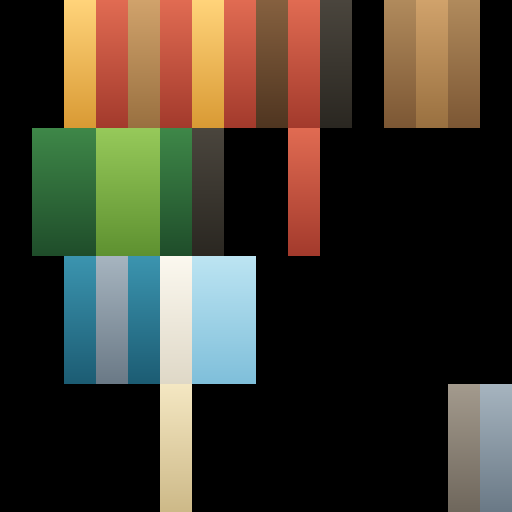
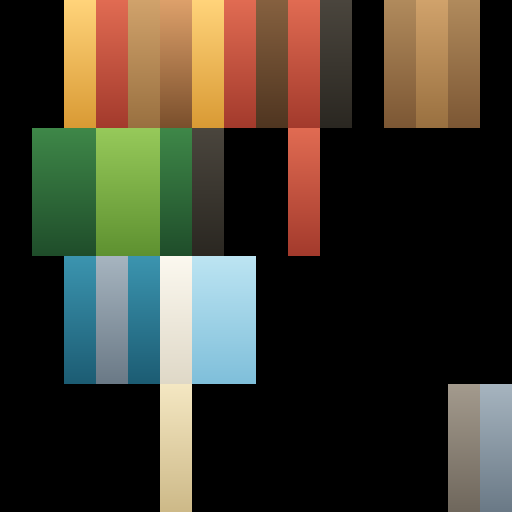
Cel 5,0 van atlas v2 krijgt een eigen houtbaan in plaats van rood
Boomstammen, planken, trappen, scheepsrompen en tentstokken staan op cel 5,0;
atlas v2 zette die op dezelfde rode baan als het dak en het vuur. De cel draagt
nu #dda06a - #7a4f2c: dezelfde houtfamilie als de blokken, kratten en planken,
maar met genoeg afstand tot beide bestaande houtbanen om het onderscheid binnen
een model te bewaren. Daarmee zakt het aantal modellen dat twee duidelijk
verschillende kleuren ziet samenvallen van 170 naar 152.

Changed region(s): [[0.3125, 0.0, 0.375, 0.25]]

diff --git a/docs/kleurmap_review.md b/docs/kleurmap_review.md
@@ -22,31 +22,45 @@ dat ze over de groepen van de catalogus verdeeld liggen: bouwwerken, schepen,
 opslag, huisraad, licht, eten, gereedschap, grondstoffen, bomen, planten,
 rotsen en verbindingen. Een kleurwissel landt zo altijd op iets herkenbaars.
 
+## Cel 5,0 — de houtbaan
+
+Boomstammen, planken, trappen, scheepsrompen en tentstokken staan allemaal op
+cel 5,0. De atlas zoals hij binnenkwam zette die cel op dezelfde rode baan als
+het dak en het vuur, waardoor al dat hout rood werd. Die cel draagt nu een eigen
+houtbaan: `#dda06a → #7a4f2c`.
+
+Overwogen alternatieven waren de houtbanen die er al staan — `#b08a5c → #7c5734`
+van de blokken en kratten (12,0 en 14,0) en `#d0a26b → #997040` van de planken
+(4,0 en 13,0). Allebei laten ze cel 5,0 samenvallen met een baan die er al is;
+bij de eerste lopen de treden en het frame van de houten trap in elkaar over. De
+gekozen baan houdt van allebei afstand — 55 volgens de redmean-formule uit
+`tools/kleurmap.mjs` — en blijft in dezelfde houtfamilie.
+
 ## Wat er verandert
 
 Atlas v2 is geen kleurcorrectie maar een kleinere set. De huidige atlas heeft
 26 gevulde cellen met 26 verschillende kleurbanen; v2 heeft er 28 gevuld, maar
-daar staan nog maar **14 verschillende banen** in. Tien banen dekken meerdere
+daar staan nog maar **15 verschillende banen** in. Tien banen dekken meerdere
 cellen af:
 
 | baan in v2 | cellen die erop uitkomen |
 | --- | --- |
-| `#df6a51 → #a43b2d` (rood) | 3,0 · 5,0 · 7,0 · 9,0 · 9,1 |
-| `#3e8648 → #1f4e2a` (donkergroen) | 1,1 · 2,1 · 5,1 |
-| `#fed279 → #da9b35` (amber) | 2,0 · 6,0 |
-| `#cfa16a → #9a7141` (licht hout) | 4,0 · 13,0 |
-| `#af895b → #7d5835` (hout) | 12,0 · 14,0 |
-| `#49453d → #2b2721` (donker) | 10,0 · 6,1 |
-| `#95c859 → #5f9231` (grasgroen) | 3,1 · 4,1 |
-| `#3b93ae → #1c5d74` (blauwgroen) | 2,2 · 4,2 |
-| `#a5b3be → #6b7a87` (blauwgrijs) | 3,2 · 15,3 |
-| `#bbe3f2 → #80c0da` (lichtblauw, nieuw) | 6,2 · 7,2 |
+| `#e06b52 → #a33a2c` (rood) | 3,0 · 7,0 · 9,0 · 9,1 |
+| `#3e8748 → #1f4d2a` (donkergroen) | 1,1 · 2,1 · 5,1 |
+| `#ffd37a → #d99a34` (amber) | 2,0 · 6,0 |
+| `#d0a26b → #997040` (licht hout) | 4,0 · 13,0 |
+| `#b08a5c → #7c5734` (hout) | 12,0 · 14,0 |
+| `#4a453d → #2a2721` (donker) | 10,0 · 6,1 |
+| `#96c95a → #5e9130` (grasgroen) | 3,1 · 4,1 |
+| `#3b94af → #1c5c73` (blauwgroen) | 2,2 · 4,2 |
+| `#a6b4bf → #6a7986` (blauwgrijs) | 3,2 · 15,3 |
+| `#bce4f2 → #7fbfda` (lichtblauw, nieuw) | 6,2 · 7,2 |
 
 De cellen 6,2 en 7,2 zijn in de huidige atlas leeg; v2 zet daar een lichtblauwe
 baan neer waar nog geen enkel model naar wijst.
 
 Het samenvoegen kost onderscheid binnen een model. Van de 1019 modellen met het
-gedeelde palet zijn er **170** waarin twee duidelijk verschillende kleuren
+gedeelde palet zijn er **152** waarin twee duidelijk verschillende kleuren
 (afstand > 60 volgens dezelfde redmean-formule die `tools/kleurmap.mjs` gebruikt)
 in v2 praktisch samenvallen (afstand < 12). Op het blad is dat te zien bij de
 kist — de banden en het hout lopen in elkaar over — en bij de kratten en tonnen
@@ -60,55 +74,31 @@ onderkleur van beide banen.
 
 | cel | huidig (boven → onder) | atlas v2 | modellen | afstand |
 | --- | --- | --- | ---: | ---: |
-| 2,0 | #fde674 → #fbf02e | #fed279 → #da9b35 | 4 | 110 |
-| 3,0 | #f399c1 → #e05d7b | #df6a51 → #a43b2d | 0 | 179 |
-| 4,0 | #f1976c → #f1976c | #cfa16a → #9a7141 | 4 | 118 |
-| 5,0 | #ef966b → #b16142 | #df6a51 → #a43b2d | 270 | 92 |
-| 6,0 | #ffd465 → #ff932d | #fed279 → #da9b35 | 40 | 47 |
-| 7,0 | #c84d33 → #9c3440 | #df6a51 → #a43b2d | 43 | 59 |
-| 8,0 | #924431 → #6d2e1e | #845f3f → #503620 | 105 | 55 |
-| 9,0 | #930909 → #930909 | #df6a51 → #a43b2d | 0 | 186 |
-| 10,0 | #474751 → #343438 | #49453d → #2b2721 | 95 | 41 |
-| 12,0 | #af6041 → #835442 | #af895b → #7d5835 | 199 | 58 |
-| 13,0 | #f1be98 → #c8825a | #cfa16a → #9a7141 | 130 | 98 |
-| 14,0 | #bba075 → #635141 | #af895b → #7d5835 | 281 | 55 |
-| 1,1 | #206634 → #254625 | #3e8648 → #1f4e2a | 11 | 52 |
-| 2,1 | #8ac986 → #4ea28a | #3e8648 → #1f4e2a | 13 | 223 |
-| 3,1 | #8ca948 → #4f711f | #95c859 → #5f9231 | 21 | 73 |
-| 4,1 | #228b22 → #228b22 | #95c859 → #5f9231 | 60 | 164 |
-| 5,1 | #5fc98a → #1a8368 | #3e8648 → #1f4e2a | 57 | 164 |
-| 6,1 | #545767 → #3b3d49 | #49453d → #2b2721 | 100 | 82 |
-| 9,1 | #ff9c44 → #ff7244 | #df6a51 → #a43b2d | 39 | 153 |
-| 2,2 | #0070df → #0070df | #3b93ae → #1c5d74 | 0 | 165 |
-| 3,2 | #c4cdf5 → #767c94 | #a5b3be → #6b7a87 | 190 | 69 |
-| 4,2 | #29a9e1 → #1f3e86 | #3b93ae → #1c5d74 | 11 | 84 |
-| 5,2 | #fffff8 → #d4cece | #fbf7ee → #dfd9c8 | 127 | 26 |
-| 6,2 | leeg | #bbe3f2 → #80c0da | 0 | — |
-| 7,2 | leeg | #bbe3f2 → #80c0da | 0 | — |
-| 5,3 | #f1d0b1 → #efba89 | #f3e6c1 → #ceba89 | 41 | 53 |
-| 14,3 | #a8978a → #685b51 | #a2998c → #70685d | 213 | 23 |
-| 15,3 | #858aa0 → #565c74 | #a5b3be → #6b7a87 | 228 | 91 |
-
-## Cel 5,0 — de houtbaan die rood werd
-
-Boomstammen, planken, trappen, scheepsrompen en tentstokken staan allemaal op
-cel 5,0. In de huidige atlas is dat een warme houtbaan (`#ef966b → #b16142`);
-atlas v2 zet die cel op dezelfde rode baan als het dak en het vuur. Om te kunnen
-kiezen staan in [kleurmap_review/houtvarianten.png](kleurmap_review/houtvarianten.png)
-zestien houtprops met drie houttonen op die cel naast de huidige atlas en v2:
-
-| variant | baan | afstand tot 12,0 en 14,0 | afstand tot 4,0 en 13,0 |
-| --- | --- | ---: | ---: |
-| a — blokhout | `#af895b → #7d5835` | 0 | 73 |
-| b — plankhout | `#cfa16a → #9a7141` | 73 | 0 |
-| c — eigen hout | `#dda06a → #7a4f2c` | 58 | 57 |
-
-Bij a en b valt cel 5,0 samen met een houtbaan die er al is; op het blad is dat
-te zien aan de houten trap, waar de treden en het frame in a in elkaar overlopen.
-Variant c houdt van beide banen genoeg afstand om het onderscheid te bewaren.
-
-Opnieuw maken:
-
-```
-NODE_PATH=$(npm root -g) node tools/vergelijk-kleurmap/render.mjs houtvarianten
-```
+| 2,0 | #fde675 → #fbf02d | #ffd37a → #d99a34 | 4 | 110 |
+| 3,0 | #f39ac2 → #e05c7a | #e06b52 → #a33a2c | 0 | 179 |
+| 4,0 | #f1976c → #f1976c | #d0a26b → #997040 | 4 | 119 |
+| 5,0 | #f0976c → #b06041 | #dda06a → #7a4f2c | 270 | 68 |
+| 6,0 | #ffd566 → #ff922d | #ffd37a → #d99a34 | 40 | 48 |
+| 7,0 | #c94d33 → #9b3440 | #e06b52 → #a33a2c | 43 | 60 |
+| 8,0 | #934431 → #6c2e1e | #85603f → #4f3520 | 105 | 56 |
+| 9,0 | #930909 → #930909 | #e06b52 → #a33a2c | 0 | 187 |
+| 10,0 | #474752 → #343437 | #4a453d → #2a2721 | 95 | 41 |
+| 12,0 | #b06041 → #825442 | #b08a5c → #7c5734 | 199 | 59 |
+| 13,0 | #f2bf99 → #c88159 | #d0a26b → #997040 | 130 | 99 |
+| 14,0 | #bca176 → #625040 | #b08a5c → #7c5734 | 281 | 55 |
+| 1,1 | #206734 → #254525 | #3e8748 → #1f4d2a | 11 | 52 |
+| 2,1 | #8bca86 → #4da18a | #3e8748 → #1f4d2a | 13 | 224 |
+| 3,1 | #8daa49 → #4e701e | #96c95a → #5e9130 | 21 | 73 |
+| 4,1 | #228b22 → #228b22 | #96c95a → #5e9130 | 60 | 165 |
+| 5,1 | #60ca8b → #198268 | #3e8748 → #1f4d2a | 57 | 165 |
+| 6,1 | #545867 → #3a3d48 | #4a453d → #2a2721 | 100 | 81 |
+| 9,1 | #ff9c44 → #ff7244 | #e06b52 → #a33a2c | 39 | 154 |
+| 2,2 | #0070df → #0070df | #3b94af → #1c5c73 | 0 | 166 |
+| 3,2 | #c5cef7 → #757a93 | #a6b4bf → #6a7986 | 190 | 69 |
+| 4,2 | #29abe2 → #1f3c85 | #3b94af → #1c5c73 | 11 | 86 |
+| 5,2 | #fffff9 → #d3cdce | #fbf8ef → #dfd8c7 | 127 | 26 |
+| 6,2 | leeg | #bce4f2 → #7fbfda | 0 | — |
+| 7,2 | leeg | #bce4f2 → #7fbfda | 0 | — |
+| 5,3 | #f1d0b2 → #efba88 | #f4e7c2 → #cdb988 | 41 | 55 |
+| 14,3 | #a9988b → #675a50 | #a39a8d → #6f675c | 213 | 23 |
+| 15,3 | #868ba1 → #565b73 | #a6b4bf → #6a7986 | 228 | 91 |
